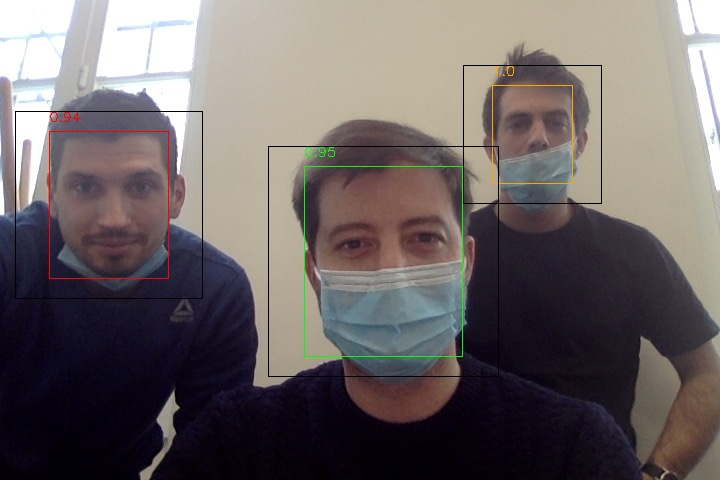
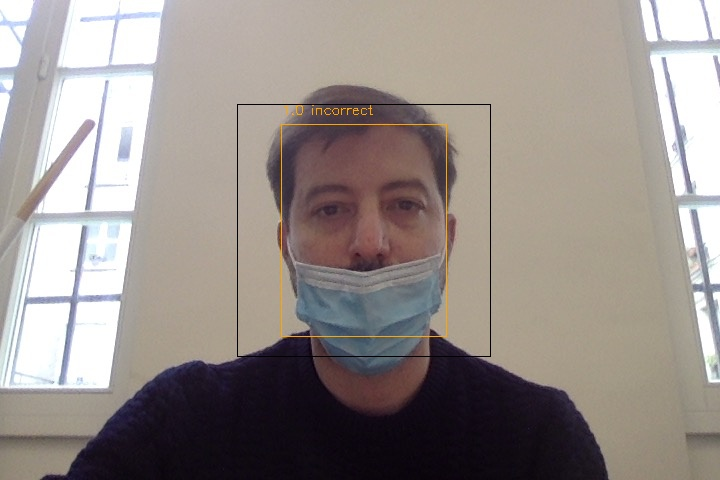
exo

diff --git a/facemask/detect_from_image.py b/facemask/detect_from_image.py
@@ -4,25 +4,36 @@ from mtcnn import MTCNN
 import argparse
 import numpy as np
 from classification_model import load_classification_model
+import time
 
 ap = argparse.ArgumentParser()
 ap.add_argument("-i", "--image", required=True, help="path to input image")
 args = vars(ap.parse_args())
 
+start = time.time()
 detector = MTCNN()
+end = time.time()
+print("(time) MTCNN():", end - start)
 
 image = cv2.cvtColor(cv2.imread(args["image"]), cv2.COLOR_BGR2RGB)
+start = time.time()
 detections = detector.detect_faces(image)
+end = time.time()
+print("(time) detect_faces(image):", end - start)
 
+start = time.time()
 classification_model = load_classification_model("models/model1_300obs")
+end = time.time()
+print("(time) load_classification_model():", end - start)
 
 img_with_dets = image.copy()
 min_conf = 0.9
 ind = 0
 for detection in detections:
+    start = time.time()
     if detection['confidence'] >= min_conf:
         x, y, width, height = detection['box']
-        print("Face found")
+        # print("Face found")
 
         diff = 20
         # squaring image
@@ -47,27 +58,33 @@ for detection in detections:
         face = cv2.cvtColor(face, cv2.COLOR_BGR2RGB)
         face = cv2.resize(face, (256, 256))
         face_norm = face / 255.0
-        print(face_norm.shape)
+        # print(face_norm.shape)
         # face_norm_exp = np.expand_dims(face_norm, axis=0)
 
         # face = img_to_array(face)
         # face = preprocess_input(face)
         face_expanded = np.expand_dims(face_norm, axis=0)
 
+        start = time.time()
         y_pred = classification_model.predict(face_expanded)
-        print("Prediction :", y_pred)
+        end = time.time()
+        print("(time) predict():", end - start)
+        # print("Prediction :", y_pred)
         y_pred_round = np.round(y_pred)
-        print("Prediction(round) :", y_pred_round)
-        print("AP :", round(max(y_pred[0]), 2))
+        # print("Prediction(round) :", y_pred_round)
+        # print("AP :", round(max(y_pred[0]), 2))
 
         if y_pred_round[0][0] == 1:
-            color = (255, 0, 0)
+                color = (255, 0, 0)
+                title = " no mask"
         elif y_pred_round[0][1] == 1:
             color = (0, 255, 0)
+            title = " mask"
         else:
             color = (255, 165, 0)
+            title = " incorrect"
 
-        print("Drawing rect in ", color)
+        # print("Drawing rect in ", color)
 
         # dessiner
         bounding_box = detection['box']
@@ -76,7 +93,7 @@ for detection in detections:
               (bounding_box[0]+bounding_box[2], bounding_box[1] + bounding_box[3]),
               color,
               1)
-        cv2.putText(image, str(round(max(y_pred[0]), 2)), (bounding_box[0], bounding_box[1] - 10),
+        cv2.putText(image, str(round(max(y_pred[0]), 2)) + title, (bounding_box[0], bounding_box[1] - 10),
             cv2.FONT_HERSHEY_SIMPLEX, 0.45, color, 1)
 
         cv2.rectangle(image,
@@ -84,5 +101,7 @@ for detection in detections:
               (x_max, y_max),
               (0,0,0),
               1)
+    end = time.time()
+    print("(time) Processing time per detection(image):", end - start)
 
 cv2.imwrite("output.jpg", cv2.cvtColor(image, cv2.COLOR_RGB2BGR))

diff --git a/facemask/detect_from_video.py b/facemask/detect_from_video.py
@@ -4,8 +4,13 @@ import sys
 from mtcnn import MTCNN
 from classification_model import load_classification_model
 import numpy as np
+import time
 
+start = time.time()
 detector = MTCNN()
+end = time.time()
+print("(time) MTCNN():", end - start)
+
 classification_model = load_classification_model("models/model1_300obs")
 
 video_capture = cv2.VideoCapture(0)
@@ -13,7 +18,8 @@ video_capture = cv2.VideoCapture(0)
 while True:
     # Capture frame-by-frame
     ret, frame = video_capture.read()
-    detections = detector.detect_faces(frame)
+    image_rgb = cv2.cvtColor(frame, cv2.COLOR_BGR2RGB)
+    detections = detector.detect_faces(image_rgb)
 
     min_conf = 0.9
 
@@ -21,7 +27,7 @@ while True:
         if detection['confidence'] >= min_conf:
             x, y, width, height = detection['box']
 
-            diff = 20
+            diff = 0
             # squaring image
             if height > width:
                 delta = int(round((height - width) / 2))
@@ -36,9 +42,9 @@ while True:
                 x_min = x - diff
                 x_max = x + width + diff
 
-            face = frame[y_min:y_max, x_min:x_max]
+            face = image_rgb[y_min:y_max, x_min:x_max]
 
-            face = cv2.cvtColor(face, cv2.COLOR_BGR2RGB)
+            face = cv2.cvtColor(face, cv2.COLOR_RGB2BGR)
             face = cv2.resize(face, (256, 256))
             face_norm = face / 255.0
 
@@ -49,10 +55,13 @@ while True:
 
             if y_pred_round[0][0] == 1:
                 color = (255, 0, 0)
+                title = " no mask"
             elif y_pred_round[0][1] == 1:
                 color = (0, 255, 0)
+                title = " mask"
             else:
                 color = (255, 165, 0)
+                title = " incorrect"
 
             # Draw a rectangle around the faces
             bounding_box = detection['box']
@@ -62,8 +71,14 @@ while True:
                 (bounding_box[0]+bounding_box[2], bounding_box[1] + bounding_box[3]),
                 color, 1)
 
-            cv2.putText(frame, str(round(max(y_pred[0]), 2)), (bounding_box[0], bounding_box[1] - 10),
+            cv2.putText(frame, str(round(max(y_pred[0]), 2)) + title, (bounding_box[0], bounding_box[1] - 10),
                 cv2.FONT_HERSHEY_SIMPLEX, 0.45, color, 1)
+
+            cv2.rectangle(frame,
+                (x_min, y_min),
+                  (x_max, y_max),
+                  (0,0,0),
+                  1)
 
             # Display the resulting frame
             cv2.imshow('Video', frame)
